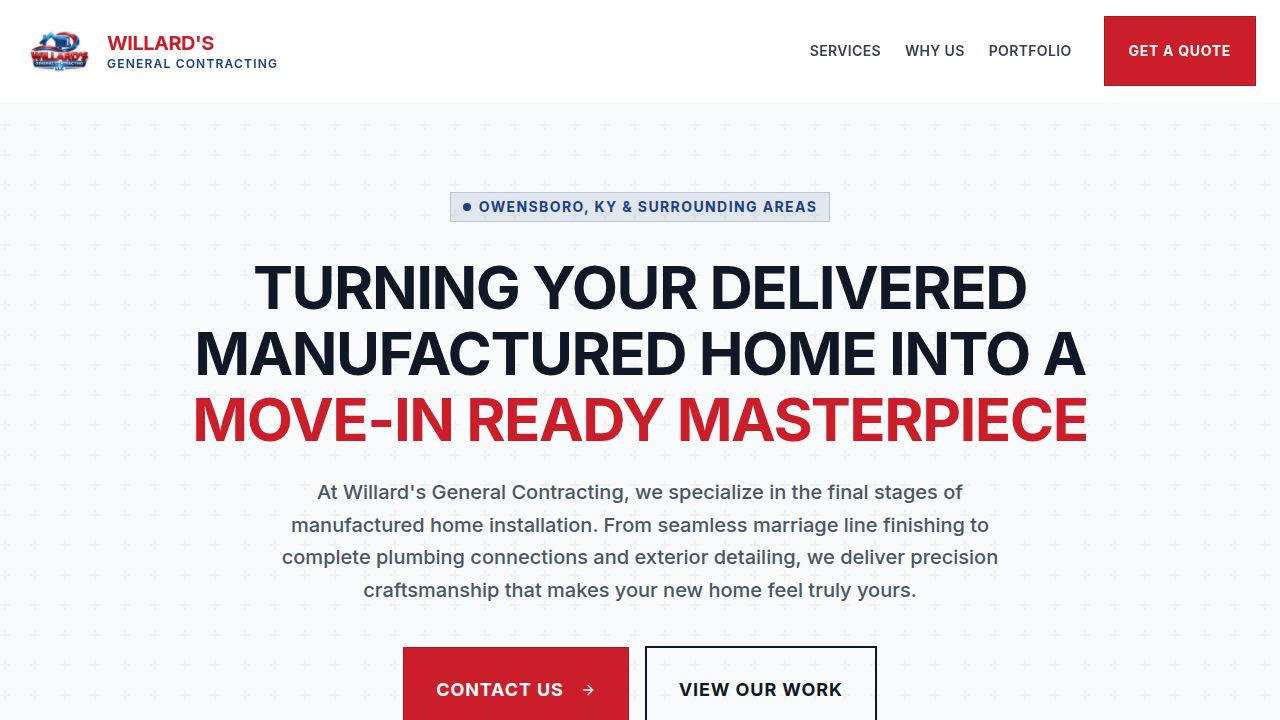
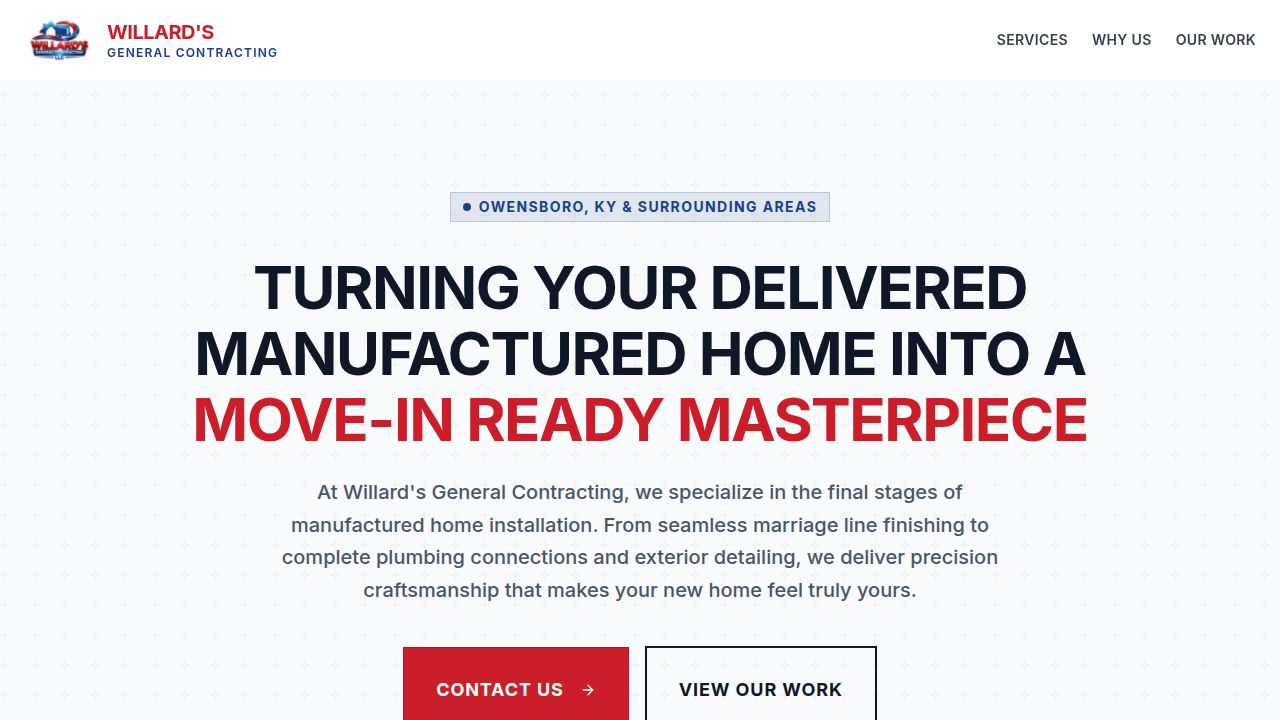
Task #105: Move portfolio to its own dedicated "Our Work" page
## What changed
- Created new page: `artifacts/public-website/src/pages/OurWork.tsx`
  - Lives at route `/our-work`
  - Has full Navbar + Footer
  - Dark header banner ("OUR WORK" title with red accent bar)
  - Category-only filter tabs — NO "All" tab
  - First available category is selected by default
  - Full photo grid (3-column) with lightbox on click (same behavior as before)
  - Empty state for categories with no photos
- Removed `<Portfolio />` section from `Home.tsx`
  - Home page now flows: Hero → Services → Why Us → Clients → Contact (no portfolio)
- Updated `App.tsx`
  - Added `/our-work` route pointing to new OurWork page
- Updated `Hero.tsx`
  - "View Our Work" button now navigates to `/our-work` via wouter (instead of smooth-scrolling to #portfolio)
- Updated `Navbar.tsx`
  - Replaced "Portfolio" `#portfolio` scroll-link with "Our Work" → navigates to `/our-work`
  - "Our Work" nav item highlights in primary red when user is on /our-work
  - Logo click now uses goHome() helper (navigates to "/" via wouter)
  - scrollTo() helper updated: if not on home page, navigates to "/" first then scrolls

## Design decisions
- activeCategory state initialized to null; effectiveCategory falls back to first available
  category, so the page auto-selects the first category rather than showing everything
- Navbar active state detection uses wouter's useLocation() for accurate route tracking
[…]

Changed region(s): [[0.625, 0.0, 1.0, 0.1222], [0.0, 0.0306, 0.2188, 0.1222]]

diff --git a/artifacts/public-website/src/pages/OurWork.tsx b/artifacts/public-website/src/pages/OurWork.tsx
@@ -1,0 +1,172 @@
+import { useState } from "react";
+import { usePortfolio } from "@/hooks/api";
+import { Navbar } from "@/components/Navbar";
+import { Footer } from "@/components/sections/Footer";
+import { Skeleton } from "@/components/ui/skeleton";
+import { Camera, Image as ImageIcon, X } from "lucide-react";
+
+function getImageUrl(url: string): string {
+  const objectsPath = url.replace(/^\/objects\//, "");
+  return `/api/public/portfolio-image/${objectsPath}`;
+}
+
+export default function OurWork() {
+  const { data: portfolio, isLoading, error } = usePortfolio();
+  const [lightboxUrl, setLightboxUrl] = useState<string | null>(null);
+  const [lightboxCaption, setLightboxCaption] = useState<string | null>(null);
+
+  const categories = portfolio
+    ? Array.from(new Set(portfolio.map(item => item.category).filter(Boolean))) as string[]
+    : [];
+
+  const [activeCategory, setActiveCategory] = useState<string | null>(null);
+
+  const effectiveCategory = activeCategory ?? (categories.length > 0 ? categories[0] : null);
+
+  const filteredPortfolio = portfolio?.filter(item =>
+    !effectiveCategory || item.category === effectiveCategory
+  );
+
+  function openLightbox(url: string, caption: string | null) {
+    setLightboxUrl(url);
+    setLightboxCaption(caption);
+  }
+
+  function closeLightbox() {
+    setLightboxUrl(null);
+    setLightboxCaption(null);
+  }
+
+  return (
+    <div className="min-h-[100dvh] flex flex-col font-sans">
+      <Navbar />
+
+      {/* Page Header */}
+      <section className="pt-32 pb-12 bg-gray-900">
+        <div className="container mx-auto px-4 md:px-6 text-center">
+          <p className="text-xs font-bold tracking-widest uppercase text-primary mb-3">Willard's General Contracting</p>
+          <h1 className="text-4xl md:text-6xl font-black text-white uppercase tracking-tight mb-4">
+            Our Work
+          </h1>
+          <div className="w-24 h-1 bg-primary mx-auto mb-6" />
+          <p className="text-lg text-gray-300 max-w-2xl mx-auto font-medium">
+            Don't just take our word for it. See the results of hard work and attention to detail.
+          </p>
+        </div>
+      </section>
+
+      <main className="flex-1 bg-gray-50 py-16">
+        <div className="container mx-auto px-4 md:px-6">
+
+          {/* Category Tabs */}
+          {!isLoading && categories.length > 0 && (
+            <div className="flex flex-wrap gap-2 mb-10 justify-center">
+              {categories.map(cat => (
+                <button
+                  key={cat}
+                  onClick={() => setActiveCategory(cat)}
+                  className={`px-5 py-2 text-sm font-bold uppercase tracking-wider border-2 transition-colors ${
+                    effectiveCategory === cat
+                      ? "border-gray-900 bg-gray-900 text-white"
+                      : "border-gray-300 text-gray-600 hover:border-gray-900 hover:text-gray-900"
+                  }`}
+                >
+                  {cat}
+                </button>
+              ))}
+            </div>
+          )}
+
+          {/* Grid */}
+          {isLoading ? (
+            <div className="grid grid-cols-1 md:grid-cols-2 lg:grid-cols-3 gap-4">
+              {[1, 2, 3, 4, 5, 6].map(i => (
+                <Skeleton key={i} className="aspect-square w-full rounded-none" />
+              ))}
+            </div>
+          ) : error || !portfolio?.length ? (
+            <div className="grid grid-cols-1 md:grid-cols-3 gap-4">
+              {[1, 2, 3].map(i => (
+                <div
+                  key={i}
+                  className="aspect-square w-full bg-white border-2 border-dashed border-gray-300 flex flex-col items-center justify-center p-6 text-center group hover:border-primary transition-colors"
+                >
+                  <Camera className="w-12 h-12 text-gray-400 mb-4 group-hover:text-primary transition-colors" />
+                  <h3 className="text-xl font-bold uppercase tracking-wide text-gray-900 mb-2">Hard at work</h3>
+                  <p className="text-gray-500 font-medium">Photos coming soon — check back!</p>
+                </div>
+              ))}
+            </div>
+          ) : filteredPortfolio?.length === 0 ? (
+            <div className="text-center py-20 text-gray-400">
+              <Camera className="w-12 h-12 mx-auto mb-4 opacity-40" />
+              <p className="font-semibold uppercase tracking-wide">No photos in this category yet</p>
+            </div>
+          ) : (
+            <div className="grid grid-cols-1 md:grid-cols-2 lg:grid-cols-3 gap-4">
+              {filteredPortfolio?.map(item => {
+                const imgSrc = getImageUrl(item.url);
+                return (
+                  <div
+                    key={item.id}
+                    className="group relative aspect-square overflow-hidden bg-gray-200 cursor-pointer"
+                    onClick={() => openLightbox(imgSrc, item.caption)}
+                  >
+                    <img
+                      src={imgSrc}
+                      alt={item.caption || "Portfolio item"}
+                      className="w-full h-full object-cover transition-transform duration-700 group-hover:scale-105"
+                      loading="lazy"
+                    />
+                    <div className="absolute inset-0 bg-gradient-to-t from-gray-900/90 via-gray-900/40 to-transparent opacity-0 group-hover:opacity-100 transition-opacity duration-300 flex flex-col justify-end p-6">
+                      {item.category && (
+                        <span className="text-primary font-bold text-xs uppercase tracking-widest mb-2 block">
+                          {item.category}
+                        </span>
+                      )}
+                      {item.caption ? (
+                        <p className="text-white font-medium text-lg leading-tight">{item.caption}</p>
+                      ) : (
+                        <div className="flex items-center gap-2 text-white font-bold uppercase tracking-wider">
+                          <ImageIcon className="w-5 h-5" /> View Detail
+                        </div>
+                      )}
+                    </div>
+                  </div>
+                );
+              })}
+            </div>
+          )}
+        </div>
+      </main>
+
+      <Footer />
+
+      {/* Lightbox */}
+      {lightboxUrl && (
+        <div
+          className="fixed inset-0 z-50 bg-black/90 flex items-center justify-center p-4"
+          onClick={closeLightbox}
+        >
+          <button
+            onClick={closeLightbox}
+            aria-label="Close"
+            className="absolute top-4 right-4 z-10 w-10 h-10 bg-black/60 rounded-full flex items-center justify-center text-white hover:bg-black/80 transition-colors"
+          >
+            <X className="w-5 h-5" />
+          </button>
+          <div className="max-w-5xl w-full" onClick={e => e.stopPropagation()}>
+            <img
+              src={lightboxUrl}
+              alt={lightboxCaption ?? "Portfolio photo"}
+              className="w-full max-h-[85vh] object-contain"
+            />
+            {lightboxCaption && (
+              <p className="text-white text-center mt-3 text-sm font-medium">{lightboxCaption}</p>
+            )}
+          </div>
+        </div>
+      )}
+    </div>
+  );
+}

diff --git a/artifacts/public-website/src/components/Navbar.tsx b/artifacts/public-website/src/components/Navbar.tsx
@@ -1,10 +1,14 @@
 import { useState, useEffect } from "react";
+import { useLocation } from "wouter";
 import { Menu, X } from "lucide-react";
 import logoUrl from "@assets/IMG_3827_1775756333117.jpeg";
 
 export function Navbar() {
   const [isScrolled, setIsScrolled] = useState(false);
   const [mobileMenuOpen, setMobileMenuOpen] = useState(false);
+  const [location, setLocation] = useLocation();
+
+  const isHome = location === "/";
 
   useEffect(() => {
     const handleScroll = () => {
@@ -14,28 +18,43 @@ export function Navbar() {
     return () => window.removeEventListener("scroll", handleScroll);
   }, []);
 
-  const navLinks = [
-    { name: "Services", href: "#services" },
-    { name: "Why Us", href: "#trust" },
-    { name: "Portfolio", href: "#portfolio" },
-  ];
-
-  const scrollTo = (href: string) => {
+  const scrollTo = (sectionId: string) => {
     setMobileMenuOpen(false);
-    const element = document.querySelector(href);
+    if (!isHome) {
+      setLocation("/");
+      setTimeout(() => {
+        const element = document.querySelector(sectionId);
+        if (element) {
+          const offset = 80;
+          const bodyRect = document.body.getBoundingClientRect().top;
+          const elementRect = element.getBoundingClientRect().top;
+          const offsetPosition = elementRect - bodyRect - offset;
+          window.scrollTo({ top: offsetPosition, behavior: "smooth" });
+        }
+      }, 100);
+      return;
+    }
+    const element = document.querySelector(sectionId);
     if (element) {
       const offset = 80;
       const bodyRect = document.body.getBoundingClientRect().top;
       const elementRect = element.getBoundingClientRect().top;
-      const elementPosition = elementRect - bodyRect;
-      const offsetPosition = elementPosition - offset;
-
-      window.scrollTo({
-        top: offsetPosition,
-        behavior: "smooth"
-      });
+      const offsetPosition = elementRect - bodyRect - offset;
+      window.scrollTo({ top: offsetPosition, behavior: "smooth" });
     }
   };
+
+  const goHome = () => {
+    setMobileMenuOpen(false);
+    setLocation("/");
+    window.scrollTo({ top: 0, behavior: "smooth" });
+  };
+
+  const navItems = [
+    { name: "Services", action: () => scrollTo("#services") },
+    { name: "Why Us", action: () => scrollTo("#trust") },
+    { name: "Our Work", action: () => { setMobileMenuOpen(false); setLocation("/our-work"); } },
+  ];
 
   return (
     <nav
@@ -48,7 +67,7 @@ export function Navbar() {
           {/* Logo */}
           <a
             href="#"
-            onClick={(e) => { e.preventDefault(); window.scrollTo({ top: 0, behavior: "smooth" }); }}
+            onClick={(e) => { e.preventDefault(); goHome(); }}
             className="flex items-center gap-3 group"
           >
             <img 
@@ -65,13 +84,17 @@ export function Navbar() {
           {/* Desktop Nav */}
           <div className="hidden md:flex items-center gap-8">
             <div className="flex items-center gap-6">
-              {navLinks.map((link) => (
+              {navItems.map((item) => (
                 <button
-                  key={link.name}
-                  onClick={() => scrollTo(link.href)}
-                  className="text-sm font-semibold text-gray-700 hover:text-primary transition-colors uppercase tracking-wide"
+                  key={item.name}
+                  onClick={item.action}
+                  className={`text-sm font-semibold transition-colors uppercase tracking-wide ${
+                    item.name === "Our Work" && location === "/our-work"
+                      ? "text-primary"
+                      : "text-gray-700 hover:text-primary"
+                  }`}
                 >
-                  {link.name}
+                  {item.name}
                 </button>
               ))}
             </div>
@@ -91,13 +114,13 @@ export function Navbar() {
       {/* Mobile Nav */}
       {mobileMenuOpen && (
         <div className="md:hidden absolute top-full left-0 right-0 bg-white border-t border-gray-100 shadow-xl py-4 flex flex-col">
-          {navLinks.map((link) => (
+          {navItems.map((item) => (
             <button
-              key={link.name}
-              onClick={() => scrollTo(link.href)}
+              key={item.name}
+              onClick={item.action}
               className="px-6 py-4 text-left text-base font-semibold text-gray-800 border-b border-gray-50 uppercase tracking-wide hover:bg-gray-50"
             >
-              {link.name}
+              {item.name}
             </button>
           ))}
         </div>

diff --git a/artifacts/public-website/src/components/sections/Hero.tsx b/artifacts/public-website/src/components/sections/Hero.tsx
@@ -1,7 +1,10 @@
 import { Button } from "@/components/ui/button";
+import { useLocation } from "wouter";
 import { ArrowRight, HardHat, ShieldCheck, Ruler } from "lucide-react";
 
 export function Hero() {
+  const [, setLocation] = useLocation();
+
   const scrollToContact = () => {
     const element = document.querySelector("#contact");
     if (element) {
@@ -52,9 +55,7 @@ export function Hero() {
             <Button
               size="lg"
               variant="outline"
-              onClick={() => {
-                document.querySelector("#portfolio")?.scrollIntoView({ behavior: "smooth" });
-              }}
+              onClick={() => setLocation("/our-work")}
               className="w-full sm:w-auto border-2 border-gray-900 text-gray-900 font-bold rounded-none px-8 py-7 text-lg uppercase tracking-wider hover:bg-gray-100"
             >
               View Our Work

diff --git a/artifacts/public-website/src/pages/Home.tsx b/artifacts/public-website/src/pages/Home.tsx
@@ -2,7 +2,6 @@ import { Navbar } from "@/components/Navbar";
 import { Hero } from "@/components/sections/Hero";
 import { Services } from "@/components/sections/Services";
 import { Trust } from "@/components/sections/Trust";
-import { Portfolio } from "@/components/sections/Portfolio";
 import { Clients } from "@/components/sections/Clients";
 import { Contact } from "@/components/sections/Contact";
 import { Footer } from "@/components/sections/Footer";
@@ -16,7 +15,6 @@ export default function Home() {
         <Hero />
         <Services />
         <Trust />
-        <Portfolio />
         <Clients />
         <Contact />
       </main>

diff --git a/artifacts/public-website/src/App.tsx b/artifacts/public-website/src/App.tsx
@@ -4,6 +4,7 @@ import { Toaster } from "@/components/ui/toaster";
 import { TooltipProvider } from "@/components/ui/tooltip";
 import NotFound from "@/pages/not-found";
 import Home from "@/pages/Home";
+import OurWork from "@/pages/OurWork";
 
 const queryClient = new QueryClient();
 
@@ -11,6 +12,7 @@ function Router() {
   return (
     <Switch>
       <Route path="/" component={Home} />
+      <Route path="/our-work" component={OurWork} />
       <Route component={NotFound} />
     </Switch>
   );
